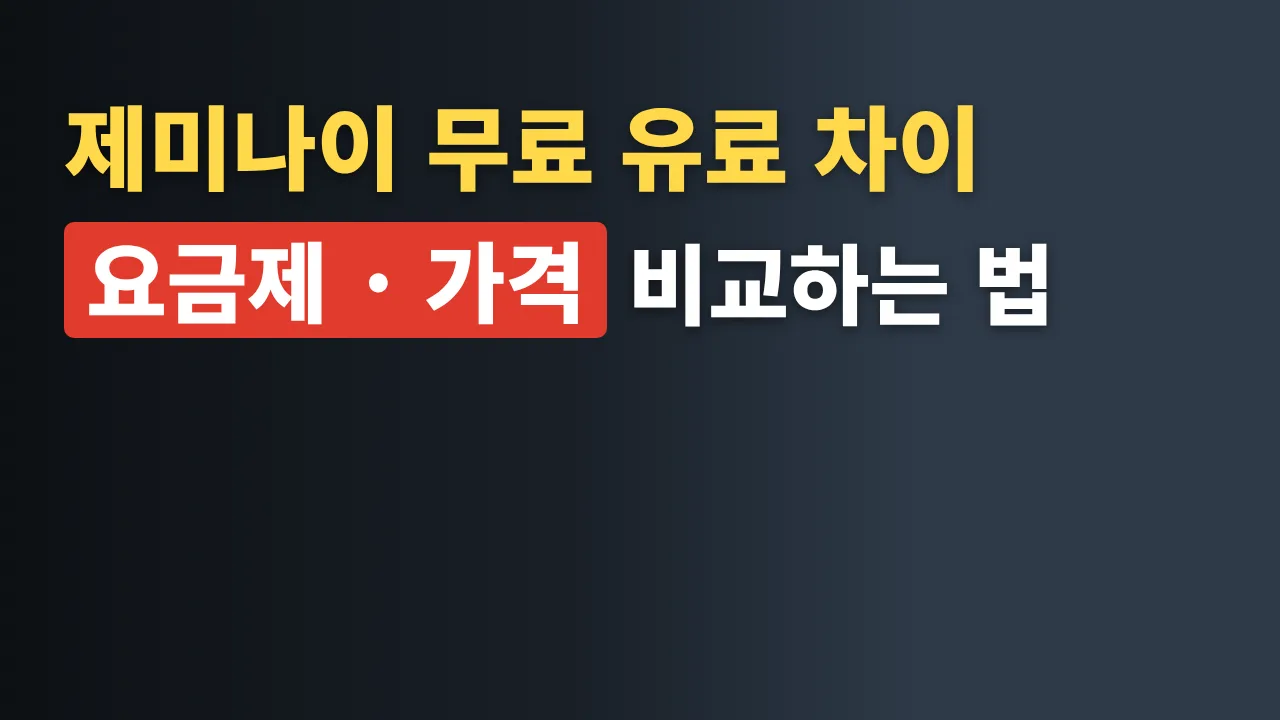
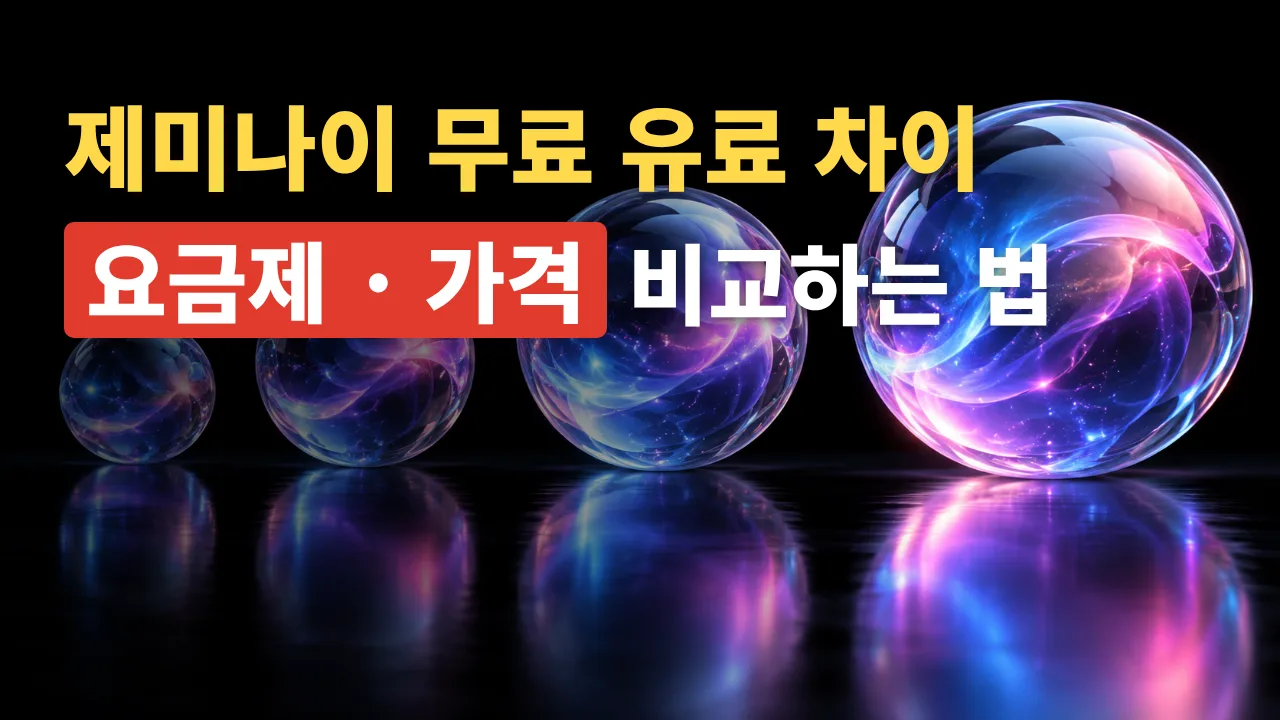
글 다듬기: 에너지바우처 대상 신청 방법·사용처·잔액조회·부산 소상공인 에너지바우처, 제미나이 썸네일 교체
Claude-Session: https://claude.ai/code/session_01UeEtVFVWMgirAoUtyHaaoz

diff --git a/src/content/benefits/energy-voucher.md b/src/content/benefits/energy-voucher.md
@@ -1,12 +1,19 @@
 ---
-title: 에너지바우처 대상 신청 사용처 잔액조회 2026
-seoTitle: 에너지바우처 대상 신청 사용처 잔액조회
-cardTitle: 에너지바우처 대상 신청 사용처
-description: 에너지바우처 대상과 신청, 고객번호, 국민행복카드 사용처와 잔액조회를 정리하고 소상공인 바우처와의 차이도 알려 드립니다.
+title: 2026 에너지바우처 대상 신청 방법과 사용처 잔액조회하는 법
+seoTitle: 에너지바우처 대상 신청 방법과 사용처 잔액조회
+cardTitle: 에너지바우처 신청 방법
+description: 2026 에너지바우처 대상자 기준과 신청 방법·기간, 고객번호, 사용처, 잔액조회, 부산 소상공인 에너지바우처 사용처까지 정리했어요.
 subcategory: bill-relief
 contentMode: evergreen
 primaryQuery: 에너지바우처
 synonyms:
+  - 에너지바우처 대상자
+  - 에너지바우처 기간
+  - 에너지바우처 신청기간
+  - 부산 에너지바우처 사용처
+  - 에너지바우처 동백전
+  - 에너지바우처 주유소
+  - 에너지바우처 다자녀
   - 에너지바우처 신청
   - 에너지바우처 동절기
   - 에너지바우처 사용기간
@@ -19,12 +26,12 @@ synonyms:
   - 에너지바우처 사용방법
   - 에너지바우처 고객번호
   - 에너지바우처 임산부
-summary: 에너지바우처는 생계·의료·주거·교육급여 수급 세대 중 노인·영유아·장애인 등이 있는 세대에 냉난방 에너지 비용을 지원합니다. 2026년 지원금액은 세대원 수에 따라 295,200원~701,300원(연간 총액)이고 2026년 12월 31일까지 신청합니다. 도시가스·전기는 고지서에서 자동으로 빠지는 요금차감과 직접 결제하는 국민행복카드 중 고르고, 지역난방은 요금차감, 등유·LPG·연탄은 국민행복카드로 씁니다. 고시원·쪽방처럼 월세에 에너지 비용이 포함돼 직접 쓰기 어려운 수급자는 2026년에 새로 생긴 사전 예외지급 대상인지 행정복지센터에 문의하세요.
-thumbnail: /images/thumbnails/energy-voucher.svg
+summary: 에너지바우처는 생계·의료·주거·교육급여 수급 세대 중 노인·영유아·장애인 등이 있는 세대에 냉난방 에너지 비용을 지원해요. 2026년 지원금액은 세대원 수에 따라 295,200원~701,300원(연간 총액)이고 2026년 12월 31일까지 신청해요. 도시가스·전기는 고지서에서 자동으로 빠지는 요금차감과 직접 결제하는 국민행복카드 중 고르고, 지역난방은 요금차감, 등유·LPG·연탄은 국민행복카드로 써요. 고시원·쪽방처럼 월세에 에너지 비용이 포함돼 직접 쓰기 어려운 수급자는 2026년에 새로 생긴 사전 예외지급 대상인지 행정복지센터에 문의하세요.
+thumbnail: /images/thumbnails/energy-voucher.webp
 ogImage: /images/og/energy-voucher.png
 datePublished: 2026-10-02
-dateModified: 2026-10-28
-researchedAt: 2026-10-27
+dateModified: 2026-10-31
+researchedAt: 2026-10-31
 author: operator
 topics: [energy]
 audience: [low-income, household, senior, disabled, families-with-children]
@@ -40,7 +47,7 @@ program:
       sourceId: local:energyv-support
     - text: 세대원 특성 · 세대원 중에 노인(1961년 12월 31일 이전 출생), 7세 이하 취학 전 아동(2019년 1월 1일 이후 출생), 등록 장애인, 임산부(임신 중이거나 분만 후 6개월 미만), 중증·희귀·중증난치질환자, 한부모가족, 소년소녀가정(가정위탁보호 아동 포함), 다자녀세대(부 또는 모와 그 19세 미만 자녀 2명 이상이 같은 세대) 중 한 명 이상
       sourceId: local:energyv-support
-    - text: 신청자 · 세대 안에서 기초생활수급자만 대상자가 될 수 있습니다
+    - text: 신청자 · 세대 안에서 기초생활수급자만 대상자가 될 수 있어요
       sourceId: local:energyv-apply
   exclusions:
     - text: 세대원 모두가 국민기초생활 보장법에 따른 보장시설에서 급여를 받는 경우
@@ -69,12 +76,12 @@ program:
     pauses:
       - start: 2026-10-01
         end: 2026-10-02
-        reason: 2026년 10월 1일~2일은 공식 안내상 신청·재신청 일시 중단기간(포인트 생성 처리기간)입니다.
+        reason: 2026년 10월 1일~2일은 공식 안내상 신청·재신청 일시 중단기간(포인트 생성 처리기간)이에요.
         sourceId: local:energyv-support
   payoutSchedule: 요금차감은 신청 다음 달부터 자동 차감, 국민행복카드는 2026년 10월 3일부터 사용
   validFrom: 2026-07-01
   validTo: 2027-05-31
-  lastStatusCheckedAt: 2026-10-27
+  lastStatusCheckedAt: 2026-10-31
   officialSourceIds: [local:energyv-main, local:energyv-support, local:energyv-apply, local:energyv-use, local:energyv-balance, local:energyv-merchants, local:energyv-faq]
 actionLinks:
   - org: 복지로
@@ -86,17 +93,19 @@ actionLinks:
     url: https://www.energyv.or.kr/info/apl_info.do
     sourceId: local:energyv-apply
 notes:
-  - 국민행복카드는 대상자 본인만 쓸 수 있고 다른 사람에게 주거나 빌려줄 수 없습니다. 은행 창구와 공과금수납기에서는 쓸 수 없습니다.
-  - 에너지바우처 지원금은 수급자의 소득 산정에 반영되지 않습니다.
+  - 국민행복카드는 대상자 본인만 쓸 수 있고 다른 사람에게 주거나 빌려줄 수 없어요. 은행 창구와 공과금수납기에서는 쓸 수 없어요.
+  - 에너지바우처 지원금은 수급자의 소득 산정에 반영되지 않아요.
 related: [/living/electricity-bill-calculator/]
 sourceIds: [local:kea-2026-0622, local:kea-2026-0930, local:busan-sbiz-energy, local:khan-sbiz-voucher, local:kb-sbiz-voucher]
 changelog:
+  - date: 2026-10-31
+    summary: 제목에 신청 방법과 잔액조회를 넣고, 소제목을 대상자·신청 기간·고객번호·사용처·잔액조회로 정리했어요. 잔액조회 그림을 에너지바우처 누리집 실제 화면으로 바꾸고, 잔액조회가 안 될 때와 부산 소상공인 에너지바우처 사용처·주유소·신청 방법을 부산시 안내 화면과 함께 추가했어요.
   - date: 2026-10-28
-    summary: 내용은 그대로 두고 읽기 쉽게 다시 정리했습니다. 문단을 짧게 나누고, 대상 확인·요금차감과 국민행복카드 비교·잔액조회 순서 그림 3개와 상황별 표를 넣었습니다.
+    summary: 내용은 그대로 두고 읽기 쉽게 다시 정리했어요. 문단을 짧게 나누고, 대상 확인·요금차감과 국민행복카드 비교·잔액조회 순서 그림 3개와 상황별 표를 넣었어요.
   - date: 2026-10-27
-    summary: 에너지바우처 누리집의 사용안내, 가맹점 현황, 물어보세요(FAQ)를 다시 확인해 국민행복카드 발급처와 가맹점 찾는 법, 쓸 수 없는 곳, 잔액조회 순서, 요금차감 고객번호와 이사했을 때 재신청, 임산부 세대 기준을 추가하고, 소상공인 경영안정 바우처와 부산시 소상공인 에너지바우처가 다른 제도라는 점을 정리했습니다. 기한이 지난 2025년 등유·LPG 선불카드 안내는 뺐습니다.
+    summary: 에너지바우처 누리집의 사용안내, 가맹점 현황, 물어보세요(FAQ)를 다시 확인해 국민행복카드 발급처와 가맹점 찾는 법, 쓸 수 없는 곳, 잔액조회 순서, 요금차감 고객번호와 이사했을 때 재신청, 임산부 세대 기준을 추가하고, 소상공인 경영안정 바우처와 부산시 소상공인 에너지바우처가 다른 제도라는 점을 정리했어요. 기한이 지난 2025년 등유·LPG 선불카드 안내는 뺐어요.
   - date: 2026-10-15
-    summary: 한국에너지공단 누리집(지원대상·사용안내·신청안내·잔액조회)과 보도자료(2026.6.22, 9.30)를 확인해 지원 제외와 동절기 중복지원을 구분하고, 난방 방식별 선택 판단표, 2026년 신설 사전 예외지급의 대상 조건, 2027년 5월 31일 고지서 기준, 잔액 조회 방법, 2025년 등유·LPG 선불카드 잔액 사용기한을 추가했습니다.
+    summary: 한국에너지공단 누리집(지원대상·사용안내·신청안내·잔액조회)과 보도자료(2026.6.22, 9.30)를 확인해 지원 제외와 동절기 중복지원을 구분하고, 난방 방식별 선택 판단표, 2026년 신설 사전 예외지급의 대상 조건, 2027년 5월 31일 고지서 기준, 잔액 조회 방법, 2025년 등유·LPG 선불카드 잔액 사용기한을 추가했어요.
 faq:
   - question: 지원금액은 매달 받는 금액인가요?
     answer: 아니요. 295,200원에서 701,300원은 2026년 한 해 총 지원금액이에요. 매달 받는 금액이 아니에요.
@@ -142,7 +151,7 @@ localSources:
     publisher: 한국에너지공단
     url: https://www.energyv.or.kr/info/balance_inquiry.do
     level: S1
-    checkedAt: 2026-10-27
+    checkedAt: 2026-10-31
   - id: local:energyv-merchants
     title: 에너지바우처 가맹점 현황 국민행복카드(실물카드) 가맹점 검색
     publisher: 한국에너지공단
@@ -160,7 +169,7 @@ localSources:
     publisher: 부산광역시
     url: https://www.busan.go.kr/minsaeng100/sub0203
     level: S1
-    checkedAt: 2026-10-27
+    checkedAt: 2026-10-31
   - id: local:khan-sbiz-voucher
     title: 소상공인 경영안정 바우처 25만 원 2월 9일부터 신청(경향신문, 2026.1.27.)
     publisher: 경향신문
@@ -193,23 +202,25 @@ localSources:
     checkedAt: 2026-10-02
 ---
 
-## 지금 할 일(2026년 10월 기준)
+에너지바우처를 받을 수 있는지, 어디서 신청하고 남은 돈은 어떻게 보는지 한 번에 확인하고 싶죠. 2026년 대상자 기준부터 신청 방법과 기간, 사용처, 잔액조회까지 순서대로 정리했어요.
 
-상황별로 지금 해야 할 일만 먼저 정리했어요.
+## 에너지바우처 2026 지금 할 일
+
+2026년 10월 31일 확인 기준으로 상황별 할 일만 먼저 정리했어요.
 
 | 내 상황 | 지금 할 일 |
 |---|---|
 | 이미 받고 있음 | 동절기 사용기간이에요. 요금차감은 10월 1일, 국민행복카드는 10월 3일부터 2027년 5월 31일까지 써요. 남은 금액은 복지로에서 확인할 수 있어요 |
 | 아직 신청 안 함 | 2026년 12월 31일까지 주민등록상 거주지 행정복지센터나 복지로에서 신청해요 |
 | 월세에 에너지 비용이 포함됨 | 고시원·쪽방 등에서 10월 말까지 바우처를 전혀 쓰지 못한 세대는 2026년에 새로 생긴 사전 예외지급 대상인지 행정복지센터에 물어보세요 |
-| 소상공인 지원을 찾음 | 에너지바우처와는 다른 제도예요. [소상공인 바우처와의 차이](#소상공인-에너지바우처는-다른-제도입니다)를 보세요 |
+| 소상공인 지원을 찾음 | 에너지바우처와는 다른 제도예요. [소상공인 바우처와의 차이](#소상공인-에너지바우처는-다른-제도)를 보세요 |
 
-## 내가 대상인가
+## 에너지바우처 대상자 기준
 
 에너지바우처는 아래 두 가지를 **모두** 충족해야 받을 수 있어요.
 
 <figure class="shot">
-  <a href="/images/articles/energy-voucher-eligibility.svg" class="shot__zoom"><img src="/images/articles/energy-voucher-eligibility.svg" width="800" height="820" alt="에너지바우처 대상 확인 두 단계. 첫째, 생계·의료·주거·교육급여 중 하나를 받는 기초생활수급자여야 하고, 둘째, 세대원 중 노인(1961년 12월 31일 이전 출생), 7세 이하 취학 전 아동, 등록 장애인, 임산부, 중증·희귀·중증난치질환자, 한부모가족, 소년소녀가정, 다자녀세대 중 한 명 이상이 있어야 한다는 내용입니다." loading="lazy" decoding="async"></a>
+  <a href="/images/articles/energy-voucher-eligibility.svg" class="shot__zoom"><img src="/images/articles/energy-voucher-eligibility.svg" width="800" height="820" alt="에너지바우처 대상 확인 두 단계. 첫째, 생계·의료·주거·교육급여 중 하나를 받는 기초생활수급자여야 하고, 둘째, 세대원 중 노인(1961년 12월 31일 이전 출생), 7세 이하 취학 전 아동, 등록 장애인, 임산부, 중증·희귀·중증난치질환자, 한부모가족, 소년소녀가정, 다자녀세대 중 한 명 이상이 있어야 한다는 내용이에요." loading="lazy" decoding="async"></a>
   <figcaption>소득 기준과 세대원 기준, 두 가지를 모두 충족해야 해요.</figcaption>
 </figure>
 
@@ -219,7 +230,7 @@ localSources:
 
 해당하는 사람이 여러 명이어도 에너지바우처는 주민등록표 등본상 **세대당 하나**만 나와요.
 
-### 임산부가 있는 세대라면
+### 에너지바우처 대상 임산부
 
 임산부도 세대원 기준 중 하나일 뿐이라, **수급 세대일 때만** 대상이 돼요. 임신 중이거나 분만 후 6개월이 지나지 않았다면 기준을 충족해요.
 
@@ -236,12 +247,12 @@ localSources:
 
 긴급복지 연료비·연탄쿠폰 등을 받는 세대는 아래 금액표의 '하절기만 사용' 금액만 나오고, 이 돈은 여름에만 쓸 수 있어요.
 
-## 우리 집 난방이면 무엇을 고르나
+## 요금차감과 국민행복카드 고르기
 
 겨울에는 **요금차감**과 **국민행복카드** 중 하나를 골라야 해요.
 
 <figure class="shot">
-  <a href="/images/articles/energy-voucher-choose.svg" class="shot__zoom"><img src="/images/articles/energy-voucher-choose.svg" width="800" height="700" alt="요금차감과 국민행복카드 비교. 요금차감은 고지서에서 자동으로 빠지고 전기·도시가스·지역난방 중 한 가지만 고를 수 있으며 지역난방은 요금차감만 가능하고 신청할 때 최근 고지서가 필요합니다. 국민행복카드는 카드로 직접 결제하고 전기·도시가스·등유·LPG·연탄에 쓸 수 있으며 등유·LPG·연탄은 카드만 가능하고 은행·카드사에서 카드를 발급받아야 합니다." loading="lazy" decoding="async"></a>
+  <a href="/images/articles/energy-voucher-choose.svg" class="shot__zoom"><img src="/images/articles/energy-voucher-choose.svg" width="800" height="700" alt="요금차감과 국민행복카드 비교. 요금차감은 고지서에서 자동으로 빠지고 전기·도시가스·지역난방 중 한 가지만 고를 수 있으며 지역난방은 요금차감만 가능하고 신청할 때 최근 고지서가 필요해요. 국민행복카드는 카드로 직접 결제하고 전기·도시가스·등유·LPG·연탄에 쓸 수 있으며 등유·LPG·연탄은 카드만 가능하고 은행·카드사에서 카드를 발급받아야 해요." loading="lazy" decoding="async"></a>
   <figcaption>요금차감은 자동, 국민행복카드는 직접 결제예요.</figcaption>
 </figure>
 
@@ -276,7 +287,7 @@ localSources:
 
 누구나 고르는 결제 방식은 아니에요. 개인별 지급액과 지급일, 신청 절차는 공식 자료에 나와 있지 않으니 행정복지센터나 상담센터(1600-3190)에 먼저 물어보세요.
 
-## 얼마를, 언제까지 쓰나
+## 에너지바우처 금액과 사용기간
 
 <div class="table-cards">
 
@@ -296,7 +307,7 @@ localSources:
 - 여름엔 안 쓰고 겨울에 몰아 쓰고 싶다면 '하절기 요금 미차감'을 신청해야 여름 고지서에서 빠지지 않아요.
 - 세대원 수는 주민등록표 등본에 함께 올라 있는 사람 수로 계산해요.
 
-## 신청 방법
+## 에너지바우처 신청 방법과 기간
 
 신청은 **2026년 12월 31일까지**예요. 주민등록상 거주지 행정복지센터에 가거나 복지로에서 온라인으로 하면 돼요.
 
@@ -307,16 +318,18 @@ localSources:
 | 대리 신청 | 주민등록표 등본상 세대원, 8촌 이내 혈족, 4촌 이내 인척이 위임장과 신분증을 가지고 할 수 있어요 |
 | 신청이 멈추는 날 | 포인트 생성 처리기간에는 신청이 잠시 멈춰요. 2026년 12월 말 중 2일에서 3일 정도가 남아 있으니 연말에 신청한다면 공지를 먼저 확인하세요 |
 
-### 요금차감 신청과 고객번호
+### 에너지바우처 고객번호 조회
 
-요금차감은 신청할 때 낸 고지서의 **고객번호**로 연결돼요. 그래서 고지서를 꼭 챙겨 가야 하고, 다음 달 고지서부터 자동으로 빠져요.
+요금차감은 신청할 때 낸 고지서의 **고객번호**로 연결돼요. 고객번호는 전기·도시가스·지역난방 요금고지서에 적혀 있고, 아파트는 관리비 고지서에서 확인해요.
+
+신청할 때 이 고지서를 꼭 챙겨 가세요. 다음 달 고지서부터 자동으로 빠져요.
 
 이사할 때는 조금 주의하세요.
 
 - **요금차감을 쓰던 세대**: 전입신고 다음 날 18시 5분 이후 자동으로 멈춰요. 고객번호 등 정보를 바꾸려면 새 집 고지서를 들고 전입한 곳 행정복지센터에서 다시 신청해야 해요.
 - **국민행복카드를 쓰는 세대**: 2026년 10월 1일 이후 이사했다면 다시 신청하지 않아도 계속 쓸 수 있어요. 다음 해 자동 신청을 위해 주소 변경만 권장돼요.
 
-## 국민행복카드 사용방법과 사용처
+## 에너지바우처 사용처와 사용방법
 
 ### 카드 발급
 
@@ -353,18 +366,25 @@ localSources:
 
 가맹점에서 결제가 안 되거나 카드를 잃어버렸다면 카드를 만든 은행이나 카드사에 문의하세요.
 
-## 잔액조회
+## 에너지바우처 잔액조회
 
 <figure class="shot">
-  <a href="/images/articles/energy-voucher-balance-steps.svg" class="shot__zoom"><img src="/images/articles/energy-voucher-balance-steps.svg" width="800" height="640" alt="에너지바우처 잔액조회 3단계. 1단계 복지로에 간편인증·공동인증서·금융인증서로 로그인, 2단계 복지지갑에서 나의 복지지갑 메뉴로 들어가기, 3단계 에너지바우처 잔액 확인. 잔액조회는 사용기간에만 되고 상세 내역은 상담센터 1600-3190에서 확인한다는 내용입니다." loading="lazy" decoding="async"></a>
-  <figcaption>잔액은 복지로 복지지갑에서 볼 수 있어요.</figcaption>
+  <a href="/images/articles/energy-voucher-balance-energyv.webp" class="shot__zoom"><img src="/images/articles/energy-voucher-balance-energyv.webp" width="800" height="660" alt="에너지바우처 누리집 잔액조회 안내 화면. 1번 복지로에 로그인한 뒤 복지지갑, 나의 복지지갑 메뉴에서 잔액 확인, 2번 상세 이용내역은 에너지바우처 챗봇이나 통합상담센터 1600-3190에서 확인, 3번 하절기 2026년 7월 1일부터 9월 30일, 동절기 2026년 10월 1일부터 2027년 5월 31일이고 잔액조회는 사용기간에만 가능하다는 부분이 빨간 상자로 표시돼 있어요." loading="lazy" decoding="async"></a>
+  <figcaption>한국에너지공단 에너지바우처 누리집 ‘잔액조회’ 안내 화면이에요. (2026년 10월 31일 확인)</figcaption>
 </figure>
 
-잔액조회는 에너지바우처 사용기간에만 돼요. 어디에 얼마를 썼는지 같은 자세한 내역은 에너지바우처 챗봇이나 상담센터(1600-3190)에서 확인할 수 있어요.
+1. 복지로에 간편인증, 공동인증서, 금융인증서 중 하나로 로그인해요.
+2. **복지지갑 → 나의 복지지갑**으로 들어가요.
+3. 에너지바우처 잔액을 확인해요.
+
+### 잔액조회가 안 될 때
+
+- **사용기간인지 확인해요**: 잔액조회는 에너지바우처 사용기간에만 돼요. 동절기는 2027년 5월 31일까지예요.
+- **전화로 물어봐요**: 어디에 얼마를 썼는지 같은 자세한 내역은 에너지바우처 챗봇이나 통합 상담센터(1600-3190, 평일 9시부터 18시까지)에서 확인할 수 있어요.
 
 기초생활수급자라면 한전의 [전기요금 복지할인](/living/electricity-bill-calculator/#전기요금-복지할인-대상)도 받을 수 있는지 확인해 보세요. 에너지바우처와는 별도 제도라 한전에 따로 신청해요.
 
-## 소상공인 에너지바우처는 다른 제도입니다
+## 소상공인 에너지바우처는 다른 제도
 
 '에너지바우처 소상공인'이나 '에너지바우처 부산'을 찾는 분도 많은데요. 이 글의 에너지바우처는 수급 세대를 위한 제도예요.
 
@@ -387,3 +407,18 @@ localSources:
 매출 조건을 맞춰도 업종이 제외 대상이면 받을 수 없어요. 신청 전에 사업자등록증의 업종·업태가 제외 업종인지 먼저 확인해 보세요.
 
 부산에 사는 수급 세대라면 에너지바우처는 다른 지역과 똑같이 행정복지센터나 복지로에서 신청하면 돼요. 소상공인 바우처의 세부 조건과 제외 업종은 각 공식 누리집에서 한 번 더 확인하세요.
+
+### 부산 에너지바우처 사용처와 주유소
+
+부산에서 '에너지바우처 사용처'나 '주유소'를 찾는다면 부산시 소상공인 에너지바우처일 수 있어요. 수급 세대 에너지바우처와 달리 사업자가 동백전으로 받아서 쓰는 지원이에요.
+
+<figure class="shot">
+  <a href="/images/articles/busan-sbiz-energy-voucher.webp" class="shot__zoom"><img src="/images/articles/busan-sbiz-energy-voucher.webp" width="800" height="669" alt="부산광역시 소상공인 에너지바우처 지급 안내 화면. 1번 신청기간 2026년 9월 28일부터 11월 6일, 2번 업체당 20만원 에너지 분야 바우처 지급으로 동백전 가맹점에서 오프라인 사용 가능, 3번 사용처는 전기요금(한국전력공사 고객센터 123 상담원 연결을 통한 비대면 결제)과 차량연료비(휘발유, 경유, LPG) 부분이 빨간 상자로 표시돼 있어요." loading="lazy" decoding="async"></a>
+  <figcaption>부산광역시 ‘소상공인 에너지바우처 지급’ 안내 화면이에요. (2026년 10월 31일 확인)</figcaption>
+</figure>
+
+- **신청 방법**: 동백전 앱에서 **정책자금 신청 → 부산시 소상공인 에너지바우처** 순서로 신청해요. 기간은 2026년 9월 28일부터 11월 6일까지예요.
+- **차량 연료(주유소)**: 휘발유, 경유, LPG 차량 연료비에 쓸 수 있고, 동백전 가맹점에서 오프라인으로 결제해요.
+- **전기요금**: 한전 고객센터(국번 없이 123)에 전화해 상담원 연결로 결제해요.
+- **쓸 수 없는 것**: 가스요금과 수도요금은 안 돼요.
+- **문의**: 콜센터 1551-5301, 부산시 중소상공인지원과 051-888-4786
